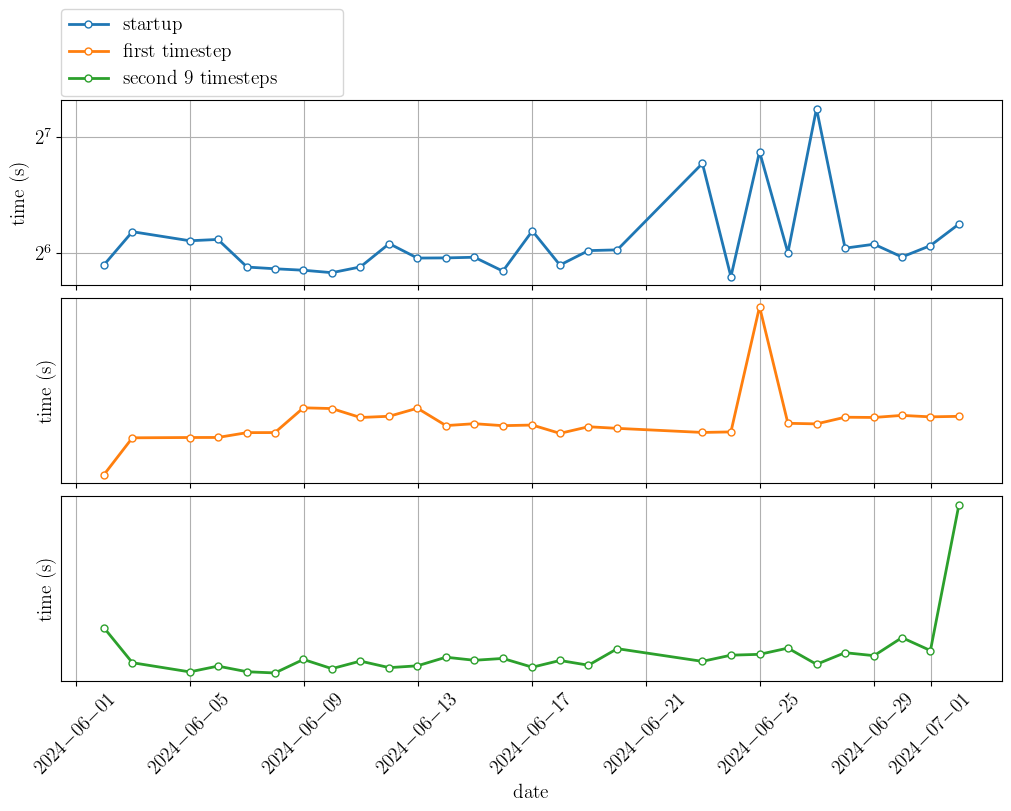
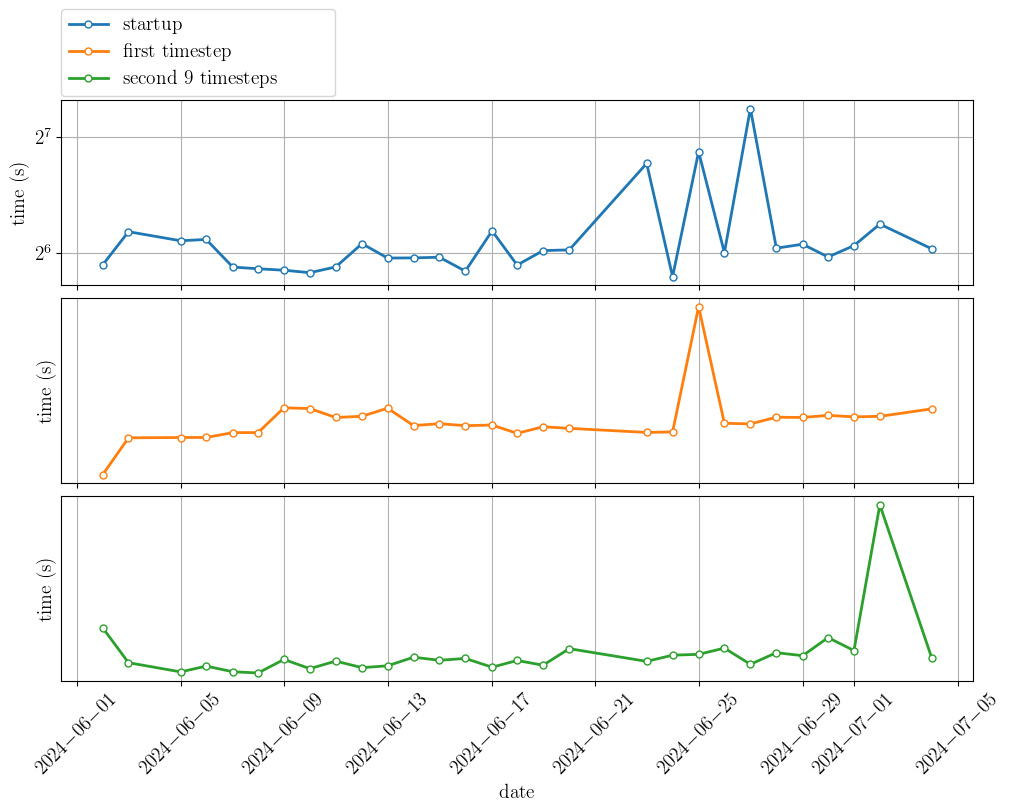
Automatic timing summary commit:

diff --git a/README.md b/README.md
@@ -1,4 +1,4 @@
-# Timing status (last ran on: 2024.07.02)
+# Timing status (last ran on: 2024.07.04)
 
 [![y3-prediction-scalability](https://github.com/illinois-ceesd/timing/actions/workflows/y3-prediction-scalability.yaml/badge.svg)](https://github.com/illinois-ceesd/timing/actions/workflows/y3-prediction-scalability.yaml) [![y2-prediction-timing](https://github.com/illinois-ceesd/timing/actions/workflows/y2-prediction-timing.yaml/badge.svg)](https://github.com/illinois-ceesd/timing/actions/workflows/y2-prediction-timing.yaml) [![isolator-timing](https://github.com/illinois-ceesd/timing/actions/workflows/isolator-timing.yaml/badge.svg)](https://github.com/illinois-ceesd/timing/actions/workflows/isolator-timing.yaml) [![flame1d-timing](https://github.com/illinois-ceesd/timing/actions/workflows/flame1d-timing.yaml/badge.svg)](https://github.com/illinois-ceesd/timing/actions/workflows/flame1d-timing.yaml) [![nozzle-timing](https://github.com/illinois-ceesd/timing/actions/workflows/nozzle-timing.yaml/badge.svg)](https://github.com/illinois-ceesd/timing/actions/workflows/nozzle-timing.yaml)
 
